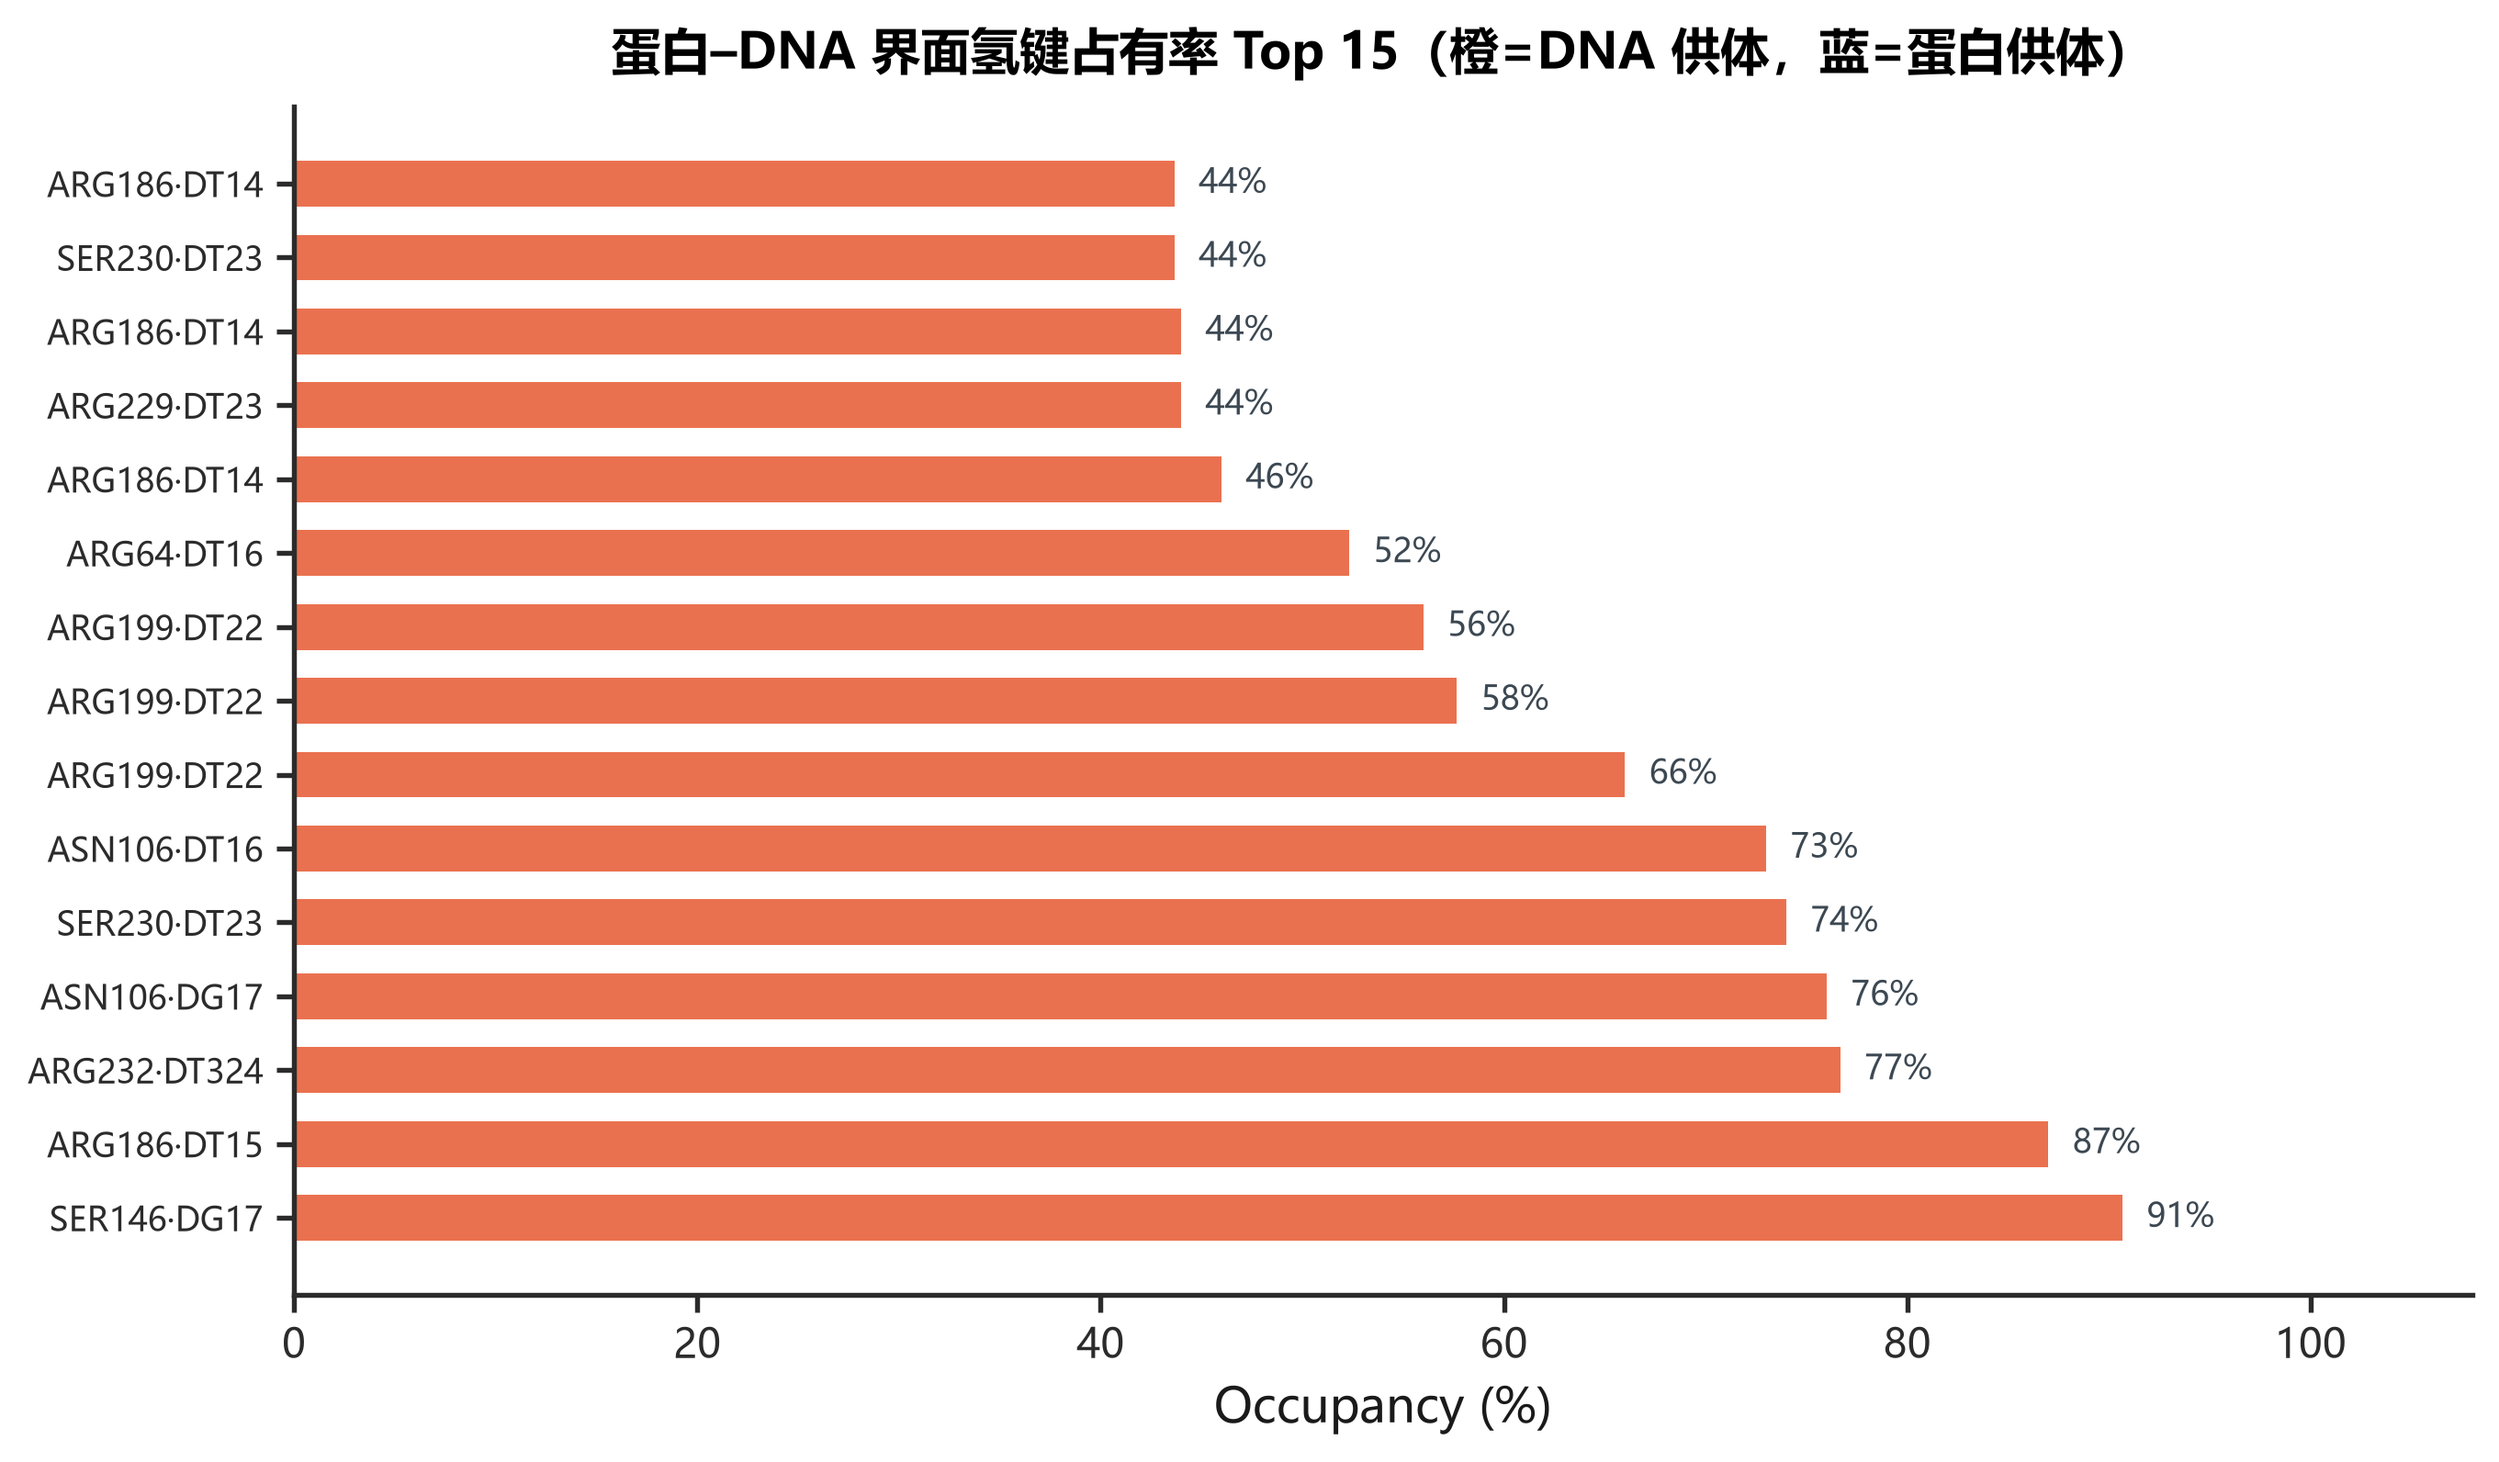
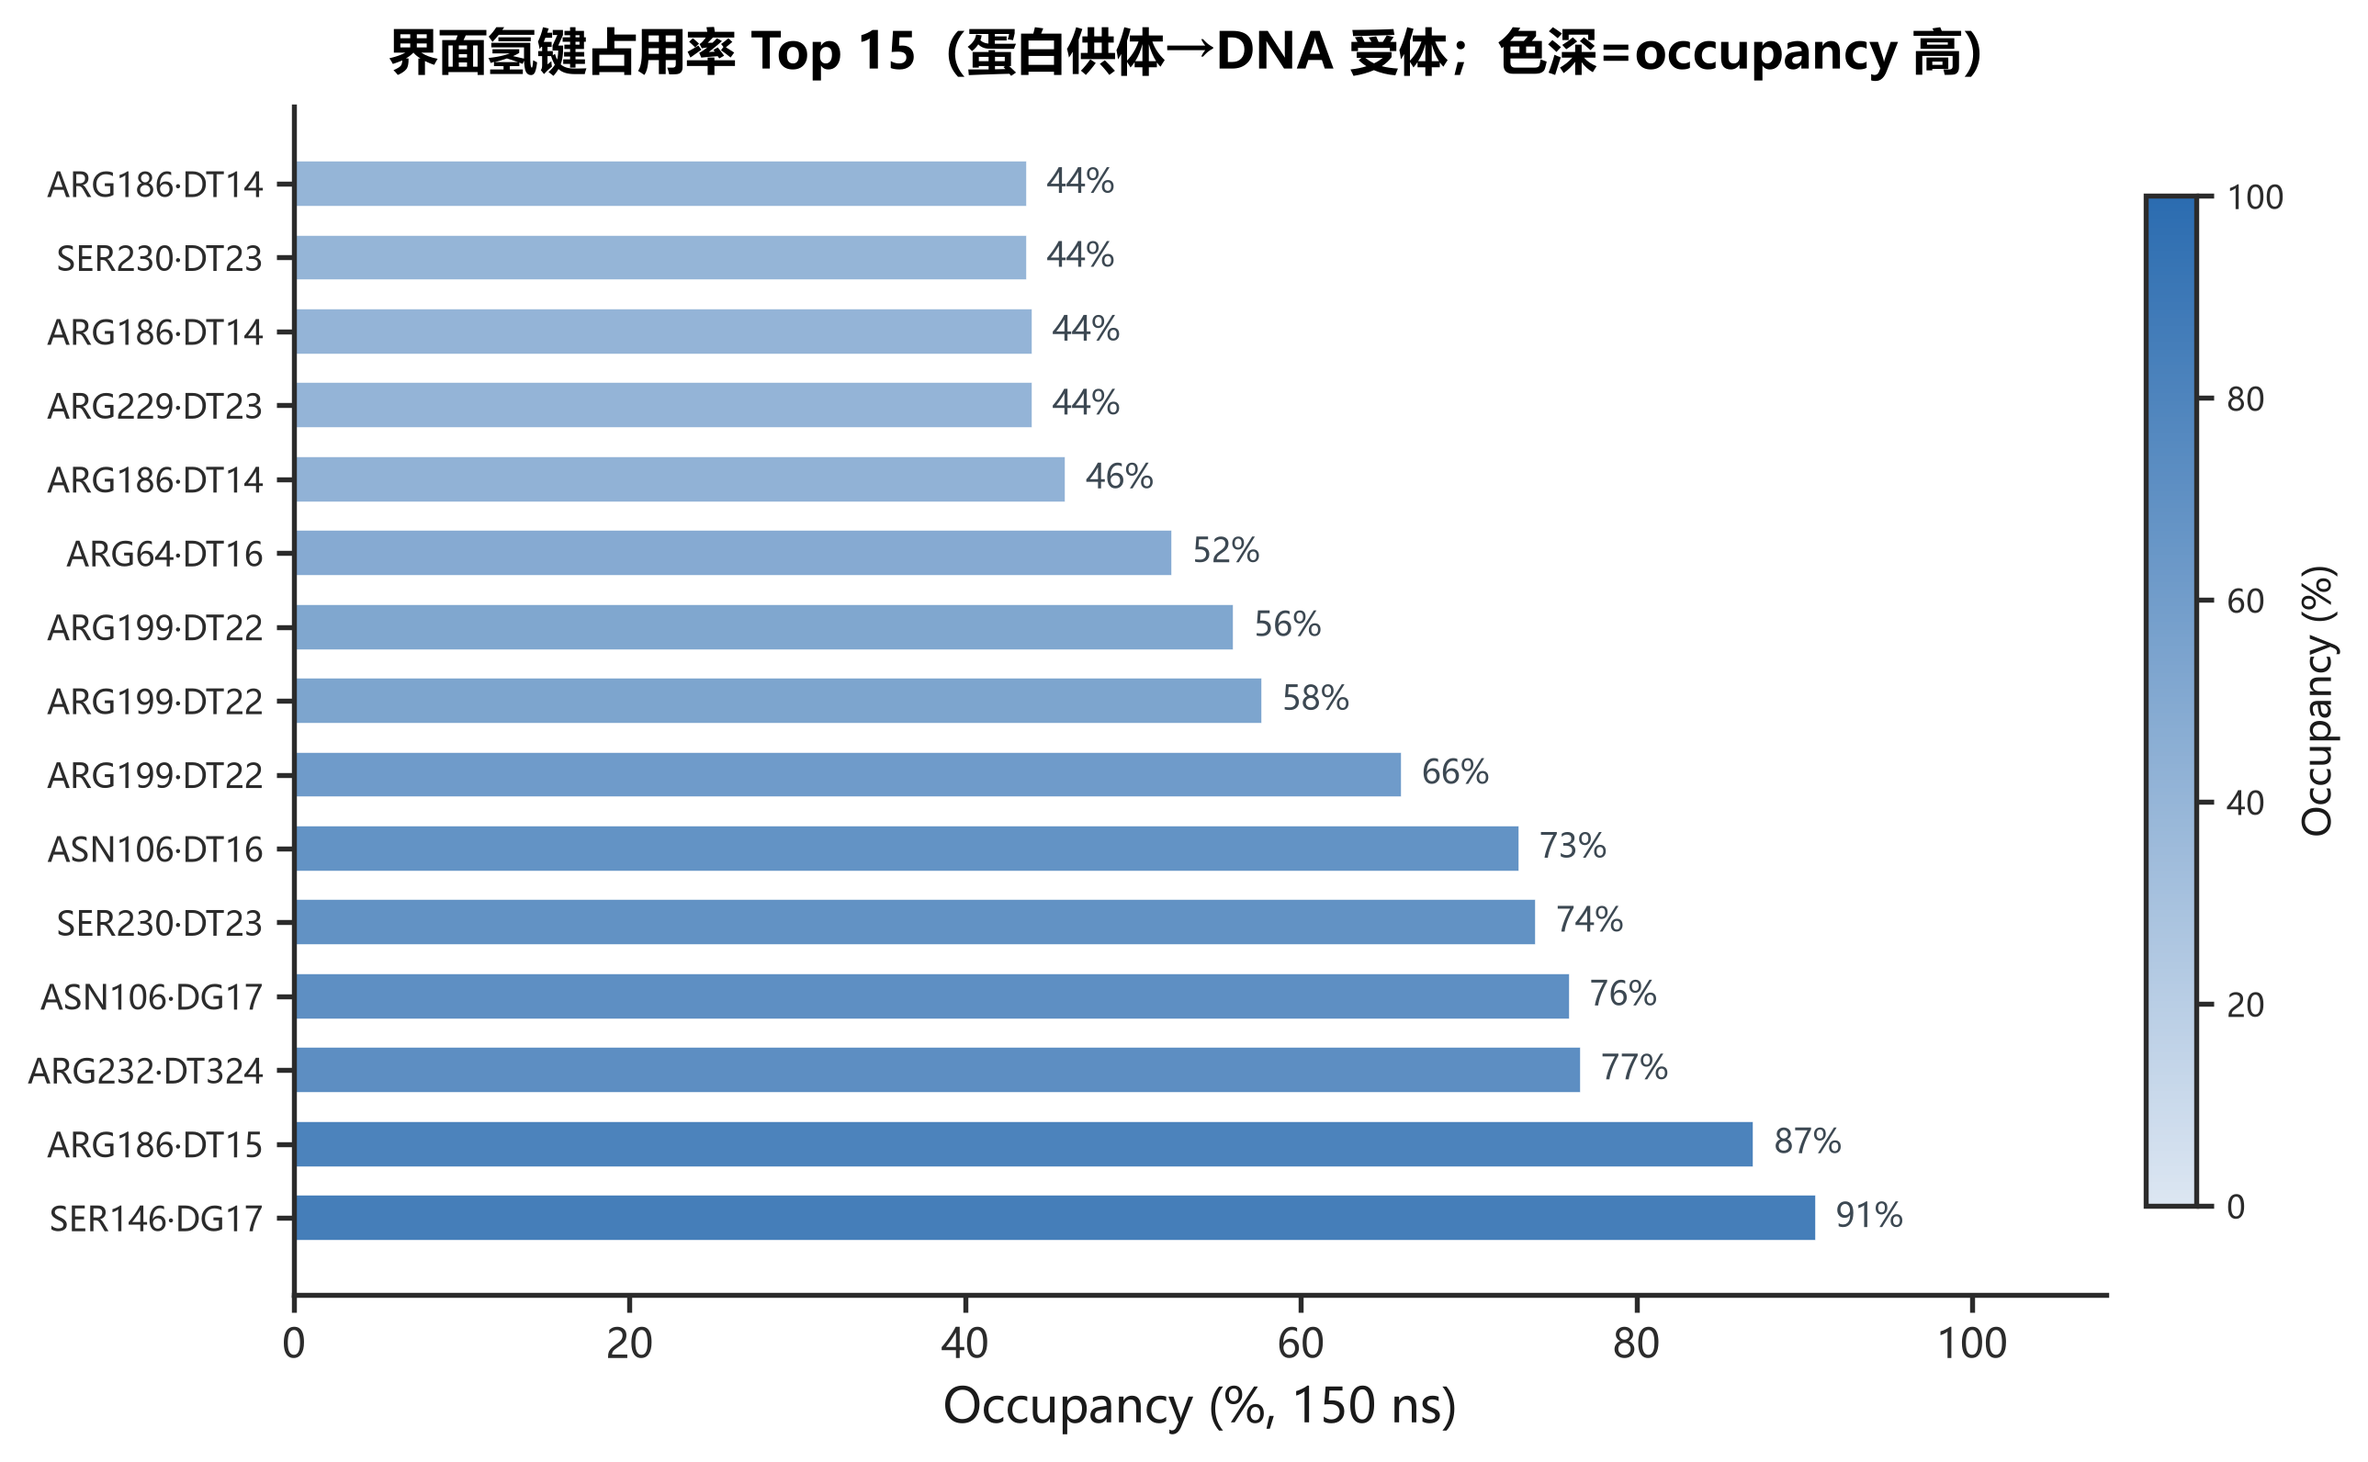
fig17 gradient color + donor-identity fix; fig22 static 2D spectrum

diff --git a/scripts/plot_pretty_figs2.py b/scripts/plot_pretty_figs2.py
@@ -321,6 +321,8 @@ with open(os.path.join(RAW, "hb_all_avg.dat"), encoding="utf-8", errors="ignore"
         rows.append((float(f[4]), f[3], ra, rd, acc, don, f[5], f[6]))
 rows.sort(reverse=True)
 print(f"   {len(rows)} interfacial H-bonds; top: {rows[:3]}")
+n_dna_donor = sum(1 for r in rows if r[3] > 254)
+print(f"   DNA-donor count among all interface H-bonds: {n_dna_donor} / {len(rows)}")
 top = rows[:15][::-1]
 fig = plt.figure(figsize=(10.2, 5.6))
 ax = fig.add_subplot(111)
@@ -331,17 +333,28 @@ for fr, nfr, ra, rd, acc, don, d, an in top:
     nd = "DNA" if rd > 254 else don.split("_")[0]
     names.append(f"{don.split('_')[0]}{rd - 254 if rd > 254 else rd}·{acc.split('_')[0]}{ra - 254 if ra > 254 else ra}")
     fracs.append(fr * 100)
-cols = [C_DNA if (ra > 254) else C_PROT for _, _, ra, *_ in top]
-bars = ax.barh(np.arange(len(top)), fracs, color=cols, alpha=0.9, height=0.62)
+# occupancy 渐变着色: 0-100% → C_PROT 浅→深
+import matplotlib as mpl2
+cmap = mpl2.colors.LinearSegmentedColormap.from_list("occ_blue",
+    ["#DCE6F2", C_PROT])
+norm = mpl2.colors.Normalize(vmin=0, vmax=100)
+cols = [cmap(norm(fr)) for fr in fracs]
+bars = ax.barh(np.arange(len(top)), fracs, color=cols, alpha=0.95, height=0.62, ec="white", lw=0.4)
 ax.set_yticks(np.arange(len(top)))
 ax.set_yticklabels(names, fontsize=8.6)
 ax.invert_yaxis()
-ax.set_xlabel("Occupancy (%)", fontsize=12.5)
+ax.set_xlabel("Occupancy (%, 150 ns)", fontsize=12.5)
 style_ax(ax, gridy=False)
 for i, (fr, y) in enumerate(zip(fracs, np.arange(len(top)))):
     ax.text(fr + 1.2, y, f"{fr:.0f}%", va="center", fontsize=8.6, color="#3C4852")
 ax.set_xlim(0, 108)
-ax.set_title("蛋白–DNA 界面氢键占有率 Top 15（橙=DNA 供体，蓝=蛋白供体）", fontsize=13)
+ax.set_title("界面氢键占用率 Top 15（蛋白供体→DNA 受体；色深=occupancy 高）", fontsize=13)
+# colorbar 表示 occupancy 渐变
+sm = mpl2.cm.ScalarMappable(cmap=cmap, norm=norm)
+sm.set_array([])
+cb = fig.colorbar(sm, ax=ax, pad=0.018, shrink=0.85)
+cb.set_label("Occupancy (%)", fontsize=10)
+cb.ax.tick_params(labelsize=8.5)
 save(fig, "fig17_hbond_occupancy.png")
 
 # ================================================================ FIG 18 口袋 RMSD

diff --git a/README.md b/README.md
@@ -15,7 +15,7 @@
 | 构象 | fig13-14 | Ramachandran + DSSP 二级结构 |
 | 界面 | fig15-17 | 接触数时程 + 接触热图 + 氢键占用率 Top 15 |
 | 局部 | fig18-20 | 催化口袋 RMSD + DNA 首尾距 + RMSF 局部放大 |
-| 机制 | fig21-22 | MM-PBSA 逐核苷酸 + 6 条关键界面氢键距离时序 |
+| 机制 | fig21-22 | MM-PBSA 逐核苷酸 + 界面 H 键 2D 谱 (occupancy×距离×角度) |
 
 完整图集见 `examples/fig01..fig22.png`。
 
